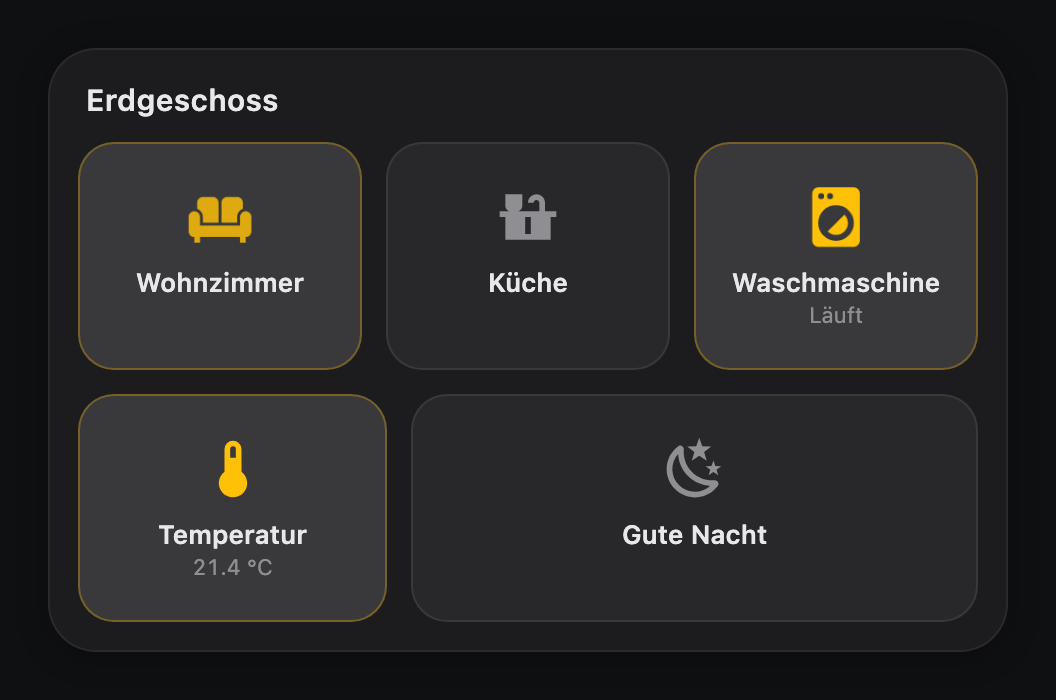
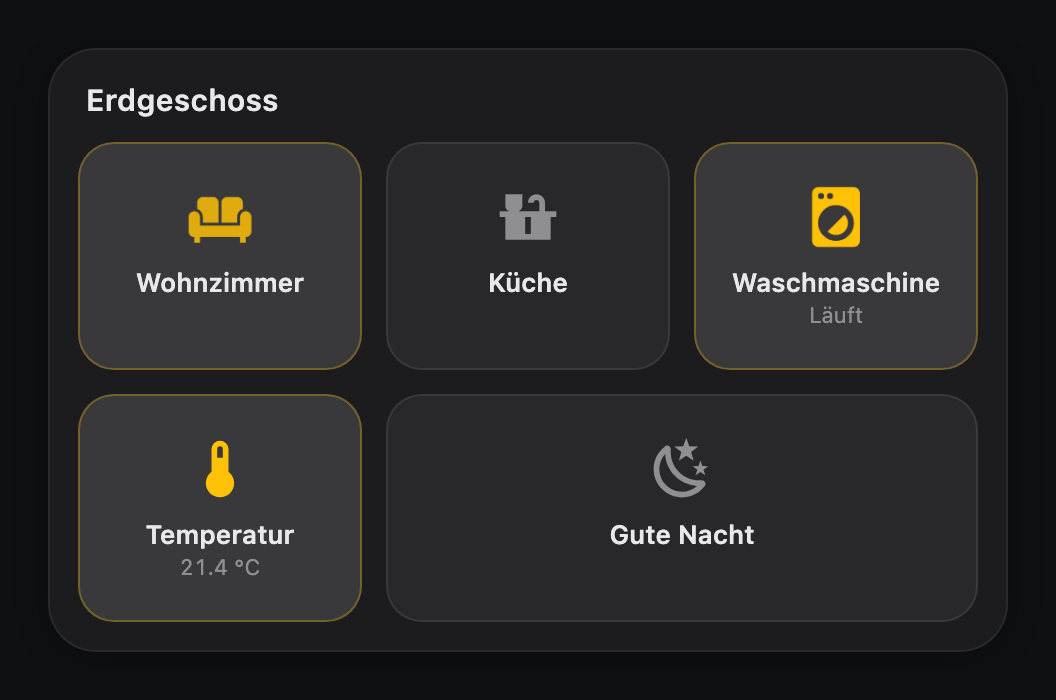
Make a colspan button exactly as wide as the buttons it replaces
A button with colspan 2 came out one gap narrower than two single buttons plus the gap between them, and its neighbour one gap wider. Rows shared their width with flexbox, which distributes only the free space by weight, and a row of two elements has one gap where a row of three has two. Reaching for flex-basis to hand back the swallowed gap achieves nothing: with box-sizing border-box a basis below the button's own padding and border is raised to it, so the correction is discarded. A grid of equal tracks with a span is the property that was meant all along. Icon size also moves into the editor, where people look for it - it was configurable in YAML but the form never offered it.

diff --git a/multi-button-card.js b/multi-button-card.js
@@ -16,7 +16,7 @@
  *   9. Registration
  */
 
-const CARD_VERSION = '1.1.0';
+const CARD_VERSION = '1.2.0';
 
 /**
  * The repository is prefixed, the card tag is not: the prefix groups the repo
@@ -830,8 +830,15 @@ const STYLES = `
 }
 
 .row {
-  display: flex;
-  flex-direction: row;
+  /* Grid, not flex: a weight-2 button has to be exactly as wide as two
+     weight-1 buttons plus the gap between them, and flex cannot express that.
+     Sharing out free space by flex-grow ignores that a row of two elements has
+     one gap where a row of three has two, and the obvious correction --
+     putting the swallowed gap into flex-basis -- does nothing, because with
+     box-sizing: border-box a basis below padding + border is silently raised
+     to it. A 'span 2' over equal 1fr tracks is the property we want. */
+  display: grid;
+  grid-auto-flow: column;
   gap: var(--mbc-gap);
   /* Basis is the height the width suggests; the row may grow into a taller
      cell and shrink into a shorter one, but never below the touch-target
@@ -847,7 +854,6 @@ const STYLES = `
 
 .btn {
   position: relative;
-  flex: 1 1 0;
   min-width: 0;
   display: flex;
   flex-direction: column;
@@ -1301,6 +1307,7 @@ class MultiButtonCard extends BaseElement {
 
     const rows = partitionRows(weights, columns);
 
+    this._gridEl.style.setProperty('--mbc-gap', cssLength(layout.gap, '12px'));
     this._gridEl.style.setProperty('--mbc-cell-h', `${cellHeight}px`);
     this._gridEl.style.setProperty(
       '--mbc-row-min',
@@ -1320,9 +1327,16 @@ class MultiButtonCard extends BaseElement {
         const cell = this._cells[buttonIndex];
         if (!cell) return;
         const weight = Math.min(weights[buttonIndex], columns);
-        cell.root.style.flexGrow = String(weight);
+        cell.root.style.gridColumn = `span ${weight}`;
         rowEl.appendChild(cell.root);
       });
+      // Equal tracks, one per slot the row holds. minmax(0, 1fr) rather than
+      // 1fr so a long label cannot push a track wider than its share.
+      const rowWeight = row.reduce(
+        (sum, buttonIndex) => sum + Math.min(weights[buttonIndex], columns),
+        0,
+      );
+      rowEl.style.gridTemplateColumns = `repeat(${rowWeight}, minmax(0, 1fr))`;
       rowElements.push(rowEl);
     });
     this._gridEl.replaceChildren(...rowElements);
@@ -1725,8 +1739,8 @@ const LABELS = {
   button: 'Button defaults',
   active_color: 'Accent colour',
   icon_color: 'Icon colour',
-  icon_size: 'Icon size',
-  label_size: 'Label size',
+  icon_size: 'Icon size (px)',
+  label_size: 'Label size (px)',
   show_name: 'Show name',
   show_state: 'Show state',
   press_effect: 'Press effect',
@@ -1818,6 +1832,8 @@ const CARD_SCHEMA = [
     icon: 'mdi:gesture-tap-button',
     schema: [
       { name: 'radius', selector: { number: { min: 0, max: 60, mode: 'box' } } },
+      { name: 'icon_size', selector: { number: { min: 12, max: 96, mode: 'slider' } } },
+      { name: 'label_size', selector: { number: { min: 8, max: 32, mode: 'slider' } } },
       { name: 'active_color', selector: { text: {} } },
       { name: 'icon_color', selector: { text: {} } },
       { name: 'show_name', selector: { boolean: {} } },
@@ -1876,6 +1892,8 @@ const BUTTON_SCHEMA = [
       },
       { name: 'label', selector: { text: {} } },
       { name: 'state_display', selector: { text: {} } },
+      { name: 'icon_size', selector: { number: { min: 12, max: 96, mode: 'slider' } } },
+      { name: 'icon_color', selector: { text: {} } },
       { name: 'confirmation', selector: { boolean: {} } },
     ],
   },
@@ -2168,6 +2186,8 @@ class MultiButtonCardEditor extends BaseElement {
       colspan: button.colspan ?? 1,
       label: button.label ?? '',
       state_display: button.state_display ?? '',
+      icon_size: toNumber(button.icon_size ?? (this._config.button || {}).icon_size, undefined),
+      icon_color: button.icon_color ?? '',
       show_name: button.show_name ?? true,
       show_state: showStateToForm(button.show_state),
       confirmation: button.confirmation === true || (button.confirmation && typeof button.confirmation === 'object'),
@@ -2190,6 +2210,8 @@ class MultiButtonCardEditor extends BaseElement {
         colspan: value.colspan,
         label: value.label,
         state_display: value.state_display,
+        icon_size: value.icon_size,
+        icon_color: value.icon_color,
         show_name: value.show_name,
         show_state: showStateFromForm(value.show_state),
         confirmation: value.confirmation,
@@ -2203,6 +2225,8 @@ class MultiButtonCardEditor extends BaseElement {
         show_name: true,
         show_state: 'auto',
         confirmation: false,
+        icon_size: toNumber((this._config.button || {}).icon_size, undefined),
+        icon_color: (this._config.button || {}).icon_color,
         // Inherited from the card, so only a genuine deviation is written out.
         animation: { ...DEFAULT_ANIMATION, ...(this._config.animation || {}) },
       },

diff --git a/tools/demo/index.html b/tools/demo/index.html
@@ -76,6 +76,12 @@
   <div class="frame" style="width: 360px"><div id="portrait-host"></div></div>
 </div>
 
+<!-- Scene: the user's config - colspan width and icon size -->
+<div class="scene" id="scene-colspan">
+  <div class="frame" style="width: 560px"><div id="colspan-host"></div></div>
+  <pre id="colspan-out"></pre>
+</div>
+
 <!-- Scene: the visual editor, against the ha-form stub -->
 <div class="scene" id="scene-editor">
   <div class="strip">
@@ -374,6 +380,59 @@ const SCENES = {
         { name: 'Außen', icon: 'mdi:thermometer', entity: 'sensor.aussen_temperatur', show_state: true },
       ],
     }, document.getElementById('portrait-host'));
+  },
+
+  colspan() {
+    card({
+      layout: { mode: 'grid', columns: 5, max_columns: 5 },
+      buttons: [
+        { name: 'Button 1', icon: 'mdi:lightbulb', tap_action: { action: 'none' } },
+        { name: 'Button 2', icon: 'mdi:power', colspan: 2, tap_action: { action: 'none' },
+          animation: { duration: '1s', when: 'always' } },
+        { name: 'Button 3', icon: 'mdi:bed' },
+        { name: 'Button 4', icon: 'mdi:bed', icon_size: 48 },
+        { name: 'Button 5', icon: 'mdi:bed', icon_size: '16px' },
+      ],
+    }, document.getElementById('colspan-host'));
+
+    requestAnimationFrame(() => {
+      const el = document.querySelector('#colspan-host multi-button-card');
+      const btns = [...el.shadowRoot.querySelectorAll('.btn')];
+      const wx = btns.map((b) => b.getBoundingClientRect().width);
+      const w = wx.map((n) => Math.round(n));
+      const gap = parseFloat(getComputedStyle(el.shadowRoot.querySelector('.grid')).gap) || 12;
+      const single = w[2]; // a 1-slot button in the second row
+      const expected = Math.round(single * 2 + gap);
+      const rows2 = [...el.shadowRoot.querySelectorAll('.row')].map((r, ri) => {
+        const kids = [...r.children].map((c) => {
+          const cs = getComputedStyle(c);
+          const name = c.querySelector('.name')?.textContent || '?';
+          return `${name}[g${cs.flexGrow} b${cs.flexBasis} pad${cs.paddingLeft} bw${cs.borderLeftWidth}] = ${c.getBoundingClientRect().width.toFixed(2)}`;
+        });
+        return `row${ri} w=${r.getBoundingClientRect().width.toFixed(2)} gap=${getComputedStyle(r).gap}\n    ` + kids.join('\n    ');
+      });
+      const icons = btns.map((b) => {
+        const i = b.querySelector('.icon');
+        const r = i.getBoundingClientRect();
+        return `${Math.round(r.width)}x${Math.round(r.height)}`;
+      });
+      document.getElementById('colspan-out').textContent =
+        rows2.join('\n') + '\n\nicon boxes (3=default, 4=48, 5=16px): ' + icons.join('  ') + '\n\n';
+      const flex = btns.map((b) => {
+        const cs = getComputedStyle(b);
+        return `${cs.flexGrow}/${cs.flexShrink}/${cs.flexBasis}`;
+      });
+      const rowEls = [...el.shadowRoot.querySelectorAll('.row')];
+      const rowW = rowEls.map((r) => Math.round(r.getBoundingClientRect().width));
+      document.getElementById('colspan-out').textContent +=
+        `flex:   ${flex.join('  ')}\n` +
+        `rows:   ${rowW.join(', ')}\n` +
+        `widths: ${w.join(', ')}\n` +
+        `one slot (row 2): ${wx[2].toFixed(2)}\n` +
+        `colspan 2 is:     ${wx[1].toFixed(2)}\n` +
+        `should be:        ${(wx[2] * 2 + gap).toFixed(2)}  (2 x slot + ${gap} gap)\n` +
+        `off by:           ${(wx[1] - (wx[2] * 2 + gap)).toFixed(2)}`;
+    });
   },
 
   editor() {

diff --git a/README.md b/README.md
@@ -62,7 +62,7 @@ Adding it by hand instead:
    - Type: **JavaScript module**
 3. Reload the browser
 
-Confirm it loaded: the browser console prints `multi-button-card v1.1.0` on
+Confirm it loaded: the browser console prints `multi-button-card v1.2.0` on
 startup.
 
 ---
@@ -122,7 +122,9 @@ max_button_size)` — which is why a single button does not become a huge tile a
 twelve buttons stay tappable.
 
 `colspan` participates in the same calculation: a button with `colspan: 2`
-occupies two slots and grows to twice the width of its neighbours.
+occupies two slots. A row is a grid of equal tracks and a wide button spans
+several of them, so `colspan: 2` is exactly as wide as two single buttons plus
+the gap between them - not merely "about twice as wide".
 
 Below 96 px of button height the button switches to a horizontal inner layout —
 icon left, text right — instead of squeezing the label. This keeps a card with
@@ -420,7 +422,9 @@ so the images in this README always show the current code. Serve the repo root
 and open `tools/demo/index.html?scene=overview`.
 
 Scenes: `overview`, `counts`, `portrait`, `landscape`, `constrained` (how the
-card behaves in a sections grid cell), `compact`, `animations`, `editor`.
+card behaves in a sections grid cell), `colspan` (prints the measured button
+widths, so the span arithmetic is checkable), `compact`, `animations`,
+`editor`.
 
 The `editor` scene is for development only and is deliberately not
 screenshotted: it renders against a stub, not against Home Assistant's real

diff --git a/CHANGELOG.md b/CHANGELOG.md
@@ -6,6 +6,26 @@ All notable changes to this project are documented here. The format follows
 
 ## [Unreleased]
 
+## [1.2.0] - 2026-09-21
+
+### Added
+
+- Icon size is editable in the visual editor, both as a card-wide default and
+  per button. The option already existed in YAML; it was simply not offered by
+  the form, which is where people looked for it.
+- Per-button icon colour in the editor, next to the size.
+
+### Fixed
+
+- A button with `colspan: 2` was not as wide as two single buttons plus the gap
+  between them - it came out one gap too narrow, and its neighbour one gap too
+  wide. Rows shared their width with flexbox, which distributes only the FREE
+  space by weight, and a row holding two elements has one gap where a row of
+  three has two. Correcting that through `flex-basis` does nothing, because
+  with `box-sizing: border-box` a basis below the button's padding and border
+  is silently raised to it. Rows are now a CSS grid of equal tracks and a wide
+  button spans two of them, which is the property that was meant all along.
+
 ## [1.1.0] - 2026-09-21
 
 ### Added
